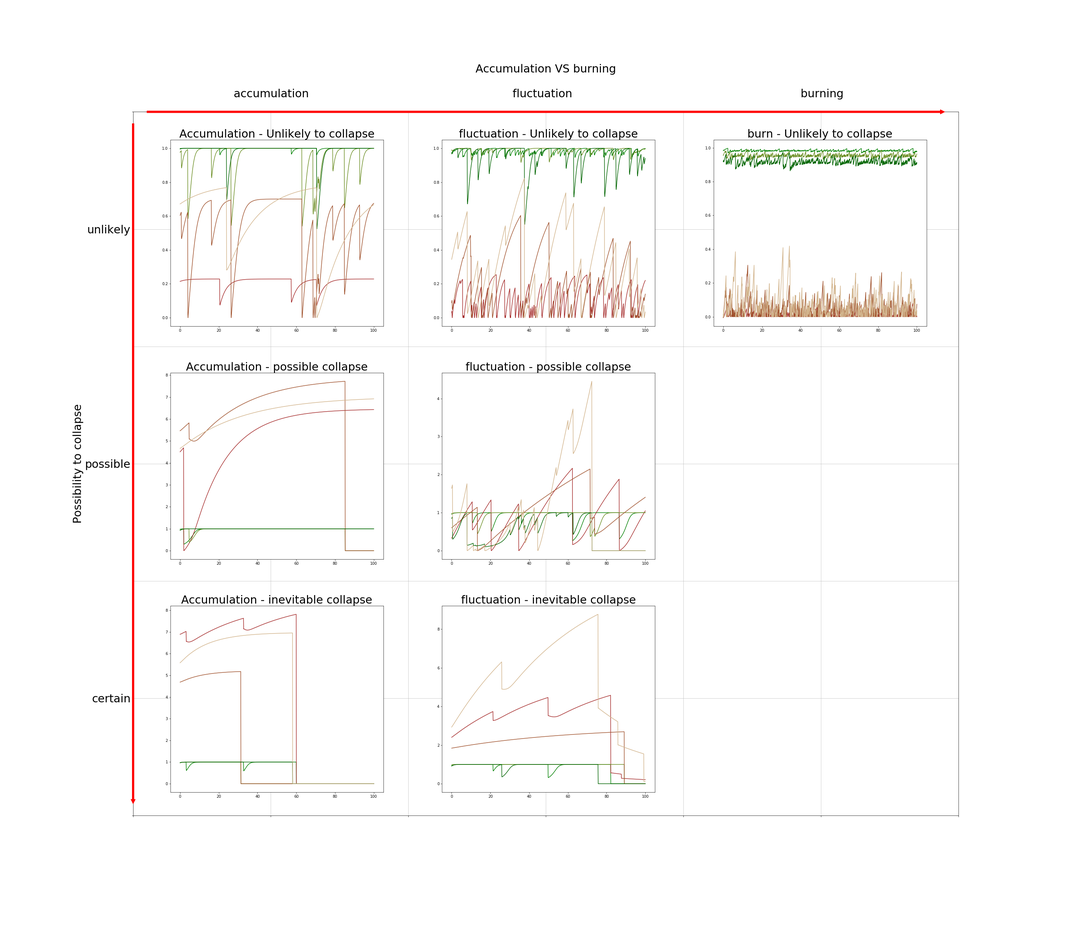
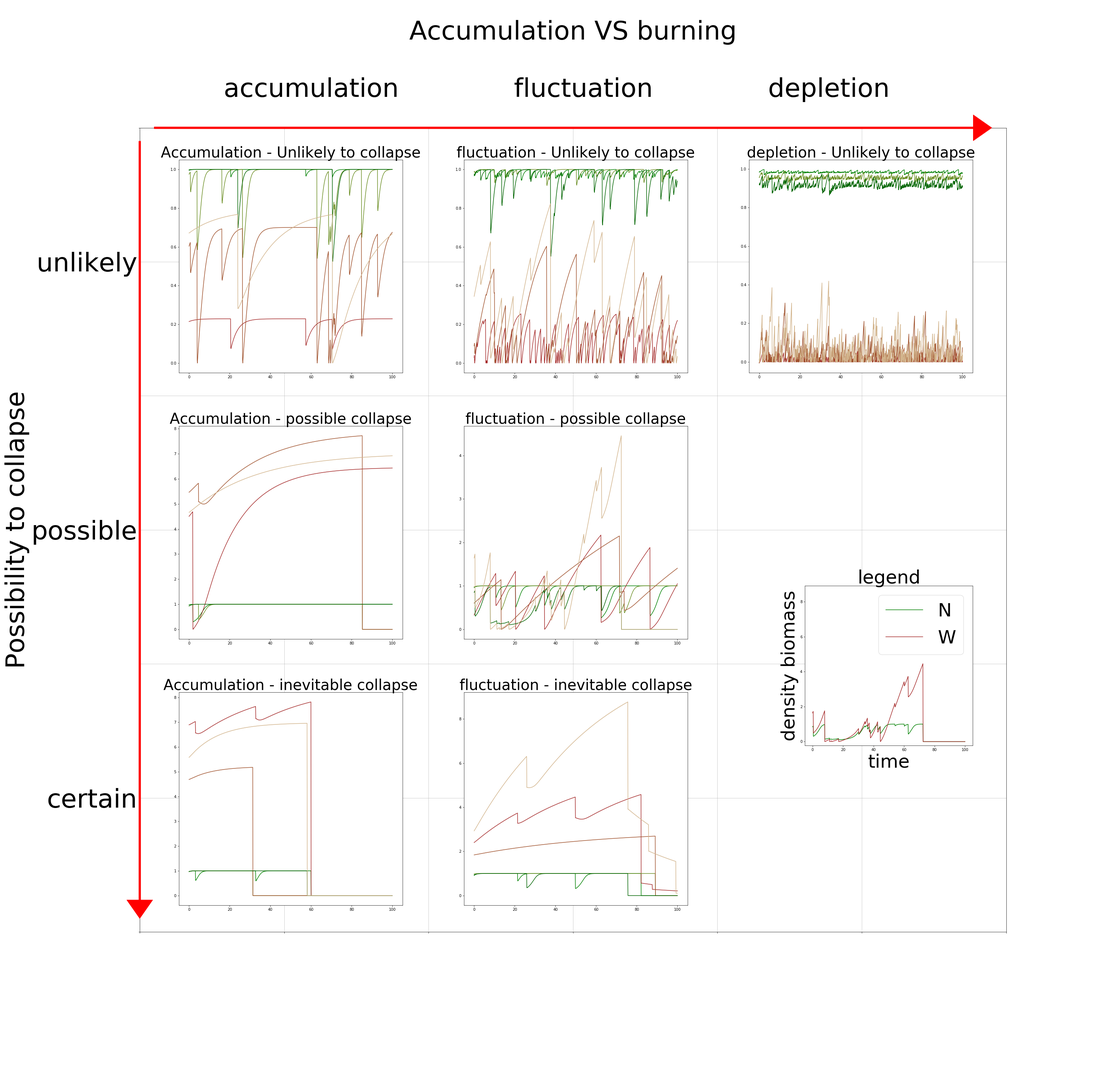
2.1 - model dynamics

diff --git a/main.tex b/main.tex
@@ -4,6 +4,8 @@
 \usepackage[colorlinks=true, allcolors=blue]{hyperref}
 \usepackage{algorithm}
 \usepackage{algorithmic}
+\usepackage{multirow}
+
 
 \title{rapport}
 \author{jjycavailles }
@@ -699,7 +701,7 @@ In this study, we focus on two measures : variability and collapse probability. 
 The aim of this section is to give two axes, to grade a dynamical behaviour, given the corresponding set of parameters.
 
 
-\subsubsection{Fuel accumulation versus burning effect}
+\subsubsection{Fuel accumulation versus depletion}
 
 \paragraph{}
 The first axes focuses on representing the major effect between accumulation of fuel and fuel burning. In order to do this, we approximate the average of each effects at the point $(1, \frac{m}{2d})$. The approximation $N=1$ is reasonable because $N$ is usually close to $1$. We make the derivation when $W = \frac{m}{2d}$ because we can see if at this point the dynamics tends to pull back fuel at a lower level or at a higher level. For example, if for a set of parameter, fuel accumulation dominate, the fuel is usually higher than $W = \frac{m}{2d}$ and if this density go down at this point the dynamics will tends to increase the level of fuel.
@@ -760,8 +762,8 @@ AB & = & fs\beta(\frac{2}{m}+\frac{\alpha}{d}) \\
 
 
 \paragraph{}
-The second axis represent the possibility to collapse. Indeed, it is unlikely to collapse if the severity of the fire is really low (compare to $N = 1$). We can define the axis 
-%We say that the system is unlikely to collapse if the probability to collapse with only one fire is lower than $0.01$.
+The second axis represent the possibility to collapse. Indeed, it is unlikely collapse if the severity of the fire is really low (compare to $N = 1$). We can define the axis 
+%We say that the system is unlikely collapse if the probability to collapse with only one fire is lower than $0.01$.
 \[
 \begin{array}{rccl}
                 &  P(s(N+\alpha W) > N-a ) & < & 0.01 \\
@@ -841,18 +843,19 @@ the specimen is constrained to be at the lower level of the axis.
 %a= 0.02 , m= 0.5 , d= 0.015625 , strength= 0.01 , alpha= 10 , beta= 2.0 % clock
 
 \paragraph{}
-We being by considering the possible dynamics that can occur in our model. Here, by changing almost only the value of $m$ and $\alpha$, in particular, the frequency remain the same, we have three time series with different general behaviour.
+We being by considering the possible dynamics that can occur in our model. Here, by changing only the value of $d$, in particular, the frequency remain the same, we have three time series with different general behaviour.
 
-In the first one, the recovery after a fire is very slow, the system can subsist only because the average strength of fire is sufficiently low. For another example, the recovery is still slow, however, here it is because the level of fuel remain too low that the system can resist to the first fires. In the last illustration, the recovery is too fast to maintain a low level of fuel, therefore, fuel accumulate, and a strong fire collapse the system.
+In the first one, the recovery after a fire is slow and the level of fuel is usually high which allow the system to collapse. For another example, the recovery is still slow, however, the level of fuel remain lower thus the system can resist to collapse. In the last illustration, the recovery is fast, and because the level of fuel is too low, a fire could not collapse the system.
 
+By changing only one parameter, we have different dynamical behaviour, and different consequences for variability and collapse probability.
 
 \begin{figure}[h!]
 \begin{center}
-\includegraphics[height = 4cm]{results/time_series_case_linear_2.png}
-\includegraphics[height = 4cm]{results/time_series_case_counter_2.png}
-\includegraphics[height = 4cm]{results/time_series_case_clock_2.png}
+\includegraphics[height = 3.8cm]{results/time_series_2.png}
+\includegraphics[height = 3.8cm]{results/time_series_3.png}
+\includegraphics[height = 3.8cm]{results/time_series_4.png}
 \end{center}
-\caption{\label{fig:temp}From left to right, $m$ (the decay rate) increase and $\alpha$ decrease}
+\caption{\label{fig:temp}Time series with different values of $d$ : $0.0625$, $0.125$ and $0.25$}
 \end{figure}
 % or category or type, kinds 
 % Time series for three different value of $m$ and $\alpha$
@@ -874,7 +877,7 @@ In the first one, the recovery after a fire is very slow, the system can subsist
 %Because we want to explore exhaustively the different dynamics cases, we introduce a coefficient to distinguish typical cases. Different \hyperref[other_ratio]{others coefficients} have been tested but only the following is used. After, another axes will be used to subdivide each cases.
 
 \paragraph{}
-Although we see different behaviour by changing only two parameters, the connection is not clear. So we will now try to clarify this by using \hyperref[axes_definition]{previously defined} axes by which we can exhaustively compare all the possible types of dynamics.
+Although we see different behaviour by changing only one parameters, the connection is not clear. So we will now try to clarify this by using \hyperref[axes_definition]{previously defined} axes by which we can exhaustively compare all the possible types of dynamics.
     
 The first axes compare the effect of fuel decay and burning. The first axes is also used to construct the second one : the possibility to collapse.
 
@@ -884,12 +887,12 @@ Below are presented several time series for each subcases, in order to give an i
 \begin{figure}[h!]
 \centering
 \includegraphics[width=12cm]{results/time_series_each_cases.png}
-\caption{Typical dynamical cases along the two axes "accumulation VS burning" and "possibility to collapse"}
+\caption{Typical dynamical cases along the two axes \textit{accumulation VS depletion} and \textit{possibility to collapse}}
 %\label{fig:universe}
 \end{figure}
 
 
-\subsubsection{Accumulation VS burning}
+\subsubsection{Accumulation VS depletion}
 
 \paragraph{}
 Indeed, the two previously defined axes could help to distinguish typical dynamical cases. We choose two separate the first axes in three part, by using two threshold ($0.5$ and $20$) for the value of the ratio \textit{AB}. The first part correspond to the cases when fuel accumulate a lot. In this case, fuel have usually time to come back at equilibrium ($W^{eq}=\frac{m}{d}$) before another fire occurs.
@@ -912,13 +915,13 @@ At the opposite, when the ratio called \textit{AB} is high, in another word when
 \includegraphics[width=3.9cm]{continue_1.png}
 \includegraphics[width=3.9cm]{continue_2.png}
 \includegraphics[width=3.9cm]{continue_3.png}
-\caption{Time series for different parameter sets corresponding to the case : burn}
+\caption{Time series for different parameter sets corresponding to the case : depletion}
 %\label{fig:universe}
 \end{figure}
 
 
 \paragraph{}
-Between the two previous cases, we define a third cases called "fluctuation". It happens when the effect of the fire and the growth are about the same quantity. In this case, $W$ can take the larger range of value (from $0$ to $W^{eq}=\frac{m}{d}$).
+Between the two previous cases, we define a third cases called \textit{fluctuation}. It happens when the effect of the fire and the growth are about the same quantity. In this case, $W$ can take the larger range of value (from $0$ to $W^{eq}=\frac{m}{d}$).
 \begin{figure}[h!]
 \centering
 \includegraphics[width=3.9cm]{middle_1.png}
@@ -931,7 +934,7 @@ Between the two previous cases, we define a third cases called "fluctuation". It
 
 \paragraph{}
 In order to visualise the limit of each cases, examples for each limits are presented.
-For the limit between "accumulation" and "fluctuation" we could see that a fire often occur before the dynamics come back to equilibrium. For the second one, we see that fuel is quite low, but could sometimes take relatively high value.
+For the limit between \textit{accumulation} and \textit{fluctuation} we could see that a fire often occur before the dynamics come back to equilibrium. For the second one, we see that fuel is quite low, but could sometimes take relatively high value.
 
 
 \begin{figure}[h!]
@@ -949,7 +952,7 @@ For the limit between "accumulation" and "fluctuation" we could see that a fire 
 \includegraphics[width=3.9cm]{lim_c_middle_1.png}
 \includegraphics[width=3.9cm]{lim_c_middle_2.png}
 \includegraphics[width=3.9cm]{lim_c_middle_3.png}
-\caption{Time series for different parameter sets corresponding to the limit between burn and fluctuate}
+\caption{Time series for different parameter sets corresponding to the limit between depletion and fluctuate}
 %\label{fig:universe}
 \end{figure}
 
@@ -964,15 +967,15 @@ For the limit between "accumulation" and "fluctuation" we could see that a fire 
 
 
 \paragraph{} %\todo{expand ? it is the main paragraph of the subsubsection ... }
-After using the axis \textit{AB} to distinguish several part, we used the axis "possibility to collapse". Usually, three part could be done, by using a threshold ($0.01$ and $0.2$) to the value of the axis. The first one, called "unlikely to collapse", which comprise the lower value of the axis and the cases where the condition $\frac{m}{d( 1-a)} & > & \beta$ is not respected. The transitory case called "possible collapse" when the collapse is unpredictable. And, the "inevitable collapse" when the system have a fire could easily collapse the system.
+After using the axis \textit{AB} to distinguish several part, we used the axis \textit{possibility to collapse}. Usually, three part could be done, by using a threshold ($0.01$ and $0.2$) to the value of the axis. The first one, called \textit{unlikely collapse}, which comprise the lower value of the axis and the cases where the condition $\frac{m}{d( 1-a)} & > & \beta$ is not respected. The transitory case called "possible collapse" when the collapse is unpredictable. And, the \textit{inevitable collapse} when the system have a fire could easily collapse the system.
 
-Using the two axis together allow to have a grid of typical dynamical cases. However, the number of this cases is $7$ and not $9$, because for the case "burn" in other words the ratio \textit{AB} is high, the level of fuel is too low to allow a fire to  the system. We have not the case "Burn - possible collapse" and surely not "Burn - inevitable collapse". Nonetheless, let recall that even is the case "unlikely collapse", the system is still able to collapse, but the risk is very low.
+Using the two axis together allow to have a grid of typical dynamical cases. However, the number of this cases is $7$ and not $9$, because for the case $depletion$ in other words the ratio \textit{AB} is high, the level of fuel is too low to allow a fire to  the system. We have not the case \textit{depletion - possible collapse} and surely not \textit{depletion - inevitable collapse}. Nonetheless, let recall that even is the case \textit{unlikely collapse}, the system is still able to collapse, but the risk is very low.
 
 
 
 
 \paragraph{accumulation - unlikely collapse\\}
-Below are presented two times series, with two different set of parameter corresponding to the case "accumulation - unlikely collapse". The left instance correspond at the case where the system not collapse because the condition $\frac{m}{d( 1-a)} & > & \beta$ is not respected, it could be verified that even is fire are strong, the lack of fuel stop it, and the system survive. The right instance correspond at low severity of the fire, the dynamics have time to come back at equilibrium between two fires.
+Below are presented two times series, with two different set of parameter corresponding to the case \textit{accumulation - unlikely collapse}. The left instance correspond at the case where the system not collapse because the condition $\frac{m}{d( 1-a)} & > & \beta$ is not respected, it could be verified that even is fire are strong, the lack of fuel stop it, and the system survive. The right instance correspond at low severity of the fire, the dynamics have time to come back at equilibrium between two fires.
 
 
 \begin{figure}[h!]
@@ -985,7 +988,7 @@ Below are presented two times series, with two different set of parameter corres
 
 
 \paragraph{accumulation - inevitable collapse\\} % always
-For some set of parameter, the system always collapse. Of course, it occurs, when the condition $\frac{m}{d( 1-a)} > \beta$ is respected. Also, the severity of the fire need to be strong enough to collapse. Because the family "accumulation" implies that the dynamics usually return to equilibrium between two fires, the system could collapse only by a single and strong fire, as we can see below.
+For some set of parameter, the system always collapse. Of course, it occurs, when the condition $\frac{m}{d( 1-a)} > \beta$ is respected. Also, the severity of the fire need to be strong enough to collapse. Because the family \textit{accumulation} implies that the dynamics usually return to equilibrium between two fires, the system could collapse only by a single and strong fire, as we can see below.
 
 \begin{figure}[h!]
 \centering
@@ -1013,8 +1016,8 @@ Between this two extremes cases, exists a range of parameters when a collapse co
 
 %%%%%%%%%%%%%%%%%%  \todo{... link with cp (but after) ... } 
 
-\paragraph{burn \\}
-Following the same idea than previously, when $W$ is always low, collapse can never occurs. In practice, we can observe a collapse only, when the set of parameter is closed to the case "fluctuation". So, $W$ can go higher enough to generate a fire. But this is observed rarely. On the figure below we can observe that $W$ come back to $0$ with each fire and have no time to accumulate to engender a strong fire.
+\paragraph{depletion \\}
+Following the same idea than previously, when $W$ is always low, collapse can never occurs. In practice, we can observe a collapse only, when the set of parameter is closed to the case \textit{fluctuation}. So, $W$ can go higher enough to generate a fire. But this is observed rarely. On the figure below we can observe that $W$ come back to $0$ with each fire and have no time to accumulate to engender a strong fire.
 %\todo{jamais collapse, expliquer pourquoi avec un très simple calcul}
 %\todo{nuancer dans le cas ou on est proche du cas "equivalence" and fuel is not always low enough}
 
@@ -1022,7 +1025,7 @@ Following the same idea than previously, when $W$ is always low, collapse can ne
 \centering
 \includegraphics[width=6cm]{continue_1.png}
 \includegraphics[width=6cm]{continue_2.png}
-\caption{Time series for different parameter sets corresponding to the case : "burn"}
+\caption{Time series for different parameter sets corresponding to the case : \textit{depletion}}
 %\label{fig:universe}
 \end{figure}
 
@@ -1035,11 +1038,11 @@ Following the same idea than previously, when $W$ is always low, collapse can ne
 
 \newpage
 \paragraph{fluctuating \\}
-The case called "fluctuating" is the harder to study, justly because $W$ fluctuates a lot, it is thus more difficult to have analytic results. Depending on the value of the ratio \textit{AB}, it could make sense to assimilate this case to the case "accumulate" or "burn".
+The case called \textit{fluctuating} is the harder to study, justly because $W$ fluctuates a lot, it is thus more difficult to have analytic results. Depending on the value of the ratio \textit{AB}, it could make sense to assimilate this case to the case \textit{accumulate} or \textit{depletion}.
 
 
 \paragraph{}
-When $AB$ is close enough to the limit with the case "burn", we could consider that the level remain most of the time low enough to avoid collapse. However, the risk to collapse is here not negligible.
+When $AB$ is close enough to the limit with the case \textit{depletion}, we could consider that the level remain most of the time low enough to avoid collapse. However, the risk to collapse is here not negligible.
 
 
 \begin{figure}[h!]
@@ -1047,13 +1050,13 @@ When $AB$ is close enough to the limit with the case "burn", we could consider t
 \includegraphics[width=5.5cm]{equivalent_high_1.png}
 \includegraphics[width=5.5cm]{equivalent_high_3.png} \\
 \includegraphics[width=5.5cm]{equivalent_high_2.png}
-\caption{Time series for different parameter sets corresponding to the case : fluctuation, but close to "burn"}
+\caption{Time series for different parameter sets corresponding to the case : \textit{fluctuation}, but close to \textit{depletion}}
 %\label{fig:universe}
 \end{figure}
 
 \newpage
 \paragraph{}
-Also, when $AB$ is lower, we have again the same three sub-cases than for the "accumulation" case. We can observe that for this example, the dynamics do not change much.%, and that the extrapolation could make sense (but only if $AB$ is low enough).
+Also, when $AB$ is lower, we have again the same three sub-cases than for the \textit{accumulation} case. We can observe that for this example, the dynamics do not change much.%, and that the extrapolation could make sense (but only if $AB$ is low enough).
 %\todo{ratio low, proche "return", on herite des 3 cas, never always, between}
 %\todo{illustrer 3 exemples pour chaque cas}
 
@@ -1064,7 +1067,7 @@ Also, when $AB$ is lower, we have again the same three sub-cases than for the "a
 \includegraphics[width=3.9cm]{equivalent_low_never_1.png}
 \includegraphics[width=3.9cm]{equivalent_low_never_2.png}
 \includegraphics[width=3.9cm]{equivalent_low_never_3.png}
-\caption{Time series for different parameter sets corresponding to the case : fluctuating - unlikely to collapse}
+\caption{Time series for different parameter sets corresponding to the case : fluctuating - unlikely collapse}
 %\label{fig:universe}
 \end{figure}
 
@@ -1096,76 +1099,129 @@ Also, when $AB$ is lower, we have again the same three sub-cases than for the "a
 
 
 \newpage
-\subsection{Link between variability and cp}
+\subsection{Connection between variability and collapse probability}
 
-\todo{You need to do this more slowly and coherently, and refer to different figures as you go along.}
 \paragraph{}
-For each of this dynamical cases, the behaviour of the two measure used, variability and collapse probability changed. Indeed, we can see below that that two measures increase for all subcases of "AB" except for the subcases "never" where "cp" remains null. Same, they are a peak for each measures (always, except for the subcases "never", "cp" remains equal to $0$). And, for fuel low, both measure are decreasing to $0$.
+One of our major focus is to study the impact of frequency over variability and collapse probability. We study this for each of the seven dynamical cases defined previously, with an appropriate range of value of frequency.
 
-We can remark, especially for the case "fluctuating" that the two peak do not occur at the same time.
+\paragraph{}
+We begin with the dynamical case called \textit{accumulate - unlikely collapse}. The red font is used to mark the dynamical case \textit{accumulate} the yellow correspond to \textit{fluctuation}. We could see that the variability increase whit the frequency, however, collapse probability remains null. We can remark that the estimation (the continuous line) work reasonably well. 
 
-\todo{- Figs. 26-28(29) can be perhaps kept in a similar form, and better explained, or joined together to some figure that shows all cases together in an organized manner. Each figure needs to be better presented, perhaps without the estimations as it is right now "adding noise", using more height (they are quite "narrow" right now), and so on.
-}
-
+\todo{do again the plot with good name, and ...}
 \begin{figure}[h!]
 \begin{center}
-\includegraphics[width=6cm]{results/return_never_2.png}
-\includegraphics[width=6cm]{results/equivalent_never.png} \\
+\includegraphics[width=10cm]{results/return_never_2.png}
 \end{center}
-\caption{\label{fig:temp}Left Return to equilibrium / never and right : Equivalent / never} % or category or type, kinds
+\caption{\label{fig:temp}Measures evolution over frequency for the dynamical cases : accumulate - unlikely collapse}
 \end{figure}
 
 
-\begin{figure}[h!]
-\begin{center}
-\includegraphics[width=6cm]{results/return_moderate_2.png}
-\includegraphics[width=6cm]{results/equivalent_moderate_2.png} \\
-\end{center}
-\caption{\label{fig:temp}Left Return to equilibrium / moderate and right : Equivalent / moderate}\end{figure}
+\paragraph{}
+Here, the collapse probability is still null. The is firstly increasing, following the behaviour of the case \textit{accumulate - unlikely collapse} and decrease after, when we approaching the \textit{depletion} dynamical case.
+
 
 \begin{figure}[h!]
 \begin{center}
-\includegraphics[width=6cm]{results/return_always_2.png} 
-\includegraphics[width=6cm]{results/equivalent_always.png} \\
+\includegraphics[width=10cm]{results/equivalent_never.png} \\
 \end{center}
-\caption{\label{fig:temp}Left Return to equilibrium / always and right : Equivalent / always}\end{figure}
+\caption{\label{fig:temp}Measures evolution over frequency for the dynamical cases : fluctuation - unlikely collapse}
+\end{figure}
+
+
+\paragraph{}
+When frequency is high enough, $AB$ take high value, and the fuel is constrain to low value. The two measures are decreasing quickly. Depending on the parameter set, collapse probability could already be null, or crash in the depletion dynamical case.
 
 \begin{figure}[h!]
 \begin{center}
 \includegraphics[width=10cm]{results/fuel_low.png}
 \end{center}
-\caption{\label{fig:temp}Fuel low}\end{figure}
+\caption{\label{fig:temp}Measures evolution over frequency for the dynamical cases : depletion}
+\end{figure}
 
+
+\paragraph{}
+For the two dynamical case \textit{accumulation - possible collapse} and \textit{accumulation - inevitable collapse} both variability and collapse probability are increasing.
+
+To clarify, even in the dynamical case \textit{accumulation - inevitable collapse} the collapse probability could be low because they are not enough fire in the time study to have the risk to collapse the system.
+
+\begin{figure}[h!]
+\begin{center}
+\includegraphics[width=6cm]{results/return_moderate_2.png}
+\includegraphics[width=6cm]{results/return_always_2.png} 
+\end{center}
+\caption{\label{fig:temp}Measures evolution over frequency for the dynamical cases : Left \textit{accumulation - possible collapse}, Right \textit{accumulation - inevitable collapse}}
+\end{figure}
+
+
+
+\paragraph{}
+For the two dynamical case \textit{fluctuation - possible collapse} and \textit{fluctuation - inevitable collapse} both variability and collapse probability are firstly increasing and after decreasing. 
+
+
+
+\begin{figure}[h!]
+\begin{center}
+\includegraphics[width=6cm]{results/equivalent_moderate_2.png} \includegraphics[width=6cm]{results/equivalent_always.png}
+\end{center}
+\caption{\label{fig:temp}Measures evolution over frequency for the dynamical cases : Left \textit{fluctuation - possible collapse}, Right \textit{fluctuation - inevitable collapse}}
+\end{figure}
 
 
 
 
 
 \newpage
-\paragraph{}
-Previously, the frequency range used was choose to remains in the same sub cases. Now, we want to know what happens when the frequency range is higher. To do this, we study the transition of subcases when we double the frequency. 
-
-We can see that the ability to collapse in one fire do not change, however, the ratio change, and thus, doubling the frequency could change the dynamical cases for axis 1 but not for axis 2. \todo{reformulate}
-
-
-\todo{write the matrix in latex, and write the name of subcases for each (table env)}
-
-\begin{figure}[h!]
-\begin{center}
-\includegraphics[width=12cm]{results/matrice_transition.png}
-\end{center}
-\caption{\label{fig:temp}Transition matrix}
-\end{figure}
-
-
-
-
 
 \paragraph{}
-Depending on the parameter set choose, the dynamics is different and therefore, the variability and the collapse probability do not react similarly. Also, we focus here on the influence of frequency to the dynamics. We can see below that increasing frequency could have different effect on variability and collapse probability.
+Inside each dynamical case, frequency affect both variability and collapse probability. Because $AD$ depend of frequency, changed this one could implies a changed of dynamical case. In order to study the effect of frequency across dynamical cases, we study the transition to one dynamical case to another one.
 
-On the first one, variability and cp first increase together and after decrease (the decreasing part is not always present). On the second one, the two measure are also increasing and decreasing but not in the same time, more surprisingly cp increase before variability. However, in the last class presented, the loop is clockwise.
+To do this, we compute the probability to change the dynamical case if the frequency is doubled. We have the following matrix transition.
 
+
+%\paragraph{}
+%Previously, the frequency range used was choose to remains in the same sub cases. Now, we want to know what happens when the frequency range is higher. To do this, we study the transition of subcases when we double the frequency. 
+
+%We can see that the ability to collapse in one fire do not change, however, the ratio change, and thus, doubling the frequency could change the dynamical cases for axis 1 but not for axis 2. \todo{reformulate}
+
+
+\begin{table}[h!]
+    \centering
+    \begin{tabular}{|c|c||c|c|c|c|c|c|c|}
+        \hline
+        $AB$ && \multicolumn{3}{c|}{accumulation} & \multicolumn{3}{c|}{fluctuation} & \\
+        \hline
+        & \rotatebox{45}{possibility to collapse} & \rotatebox{90}{unlikely collapse} & \rotatebox{90}{possible collapse} & \rotatebox{90}{inevitable collapse} & \rotatebox{90}{unlikely collapse} & \rotatebox{90}{possible collapse} & \rotatebox{90}{unlikely collapse} & \rotatebox{90}{depletion} \\
+        \hline
+        \hline
+        \multirow{3}*{accumulation} & unlikely collapse & 0.757 & 0 & 0 & 0.243 & 0 & 0 & 0 \\
+        \cline{2-9}
+        & possible collapse & 0 & 0.167 & 0 & 0 & 0.833 & 0 & 0 \\
+        \cline{2-9}
+        & inevitable collapse & 0 & 0 & 0.743 & 0 & 0 & 0.257 & 0 \\
+        \hline
+        \multirow{3}*{fluctuation} & unlikely collapse & 0 & 0 & 0 & 0.838 & 0 & 0 & 0.162 \\
+        \cline{2-9}
+        & possible collapse & 0 & 0 & 0 & 0 & 0.857 & 0 & 0.143 \\
+        \cline{2-9}
+        & unlikely collapse & 0 & 0 & 0 & 0 & 0 & 0.827 & 0.173 \\
+        \hline
+        depletion && 0 & 0 & 0 & 0 & 0 & 0 & 1 \\
+        \hline
+    \end{tabular}
+    \caption{Transition matrix}
+%    \label{tab:my_label}
+\end{table}
+
+
+
+
+\paragraph{}
+Now, the frequency ranged used is consequently higher. We focus on the general effect of changing frequency to the two measures. We could check below that for the extremes (low value of frequency and high value of frequency) both measures are very small, and they are higher for an intermediate value of frequency.
+
+
+\paragraph{}
+Depending on the parameter set choose, the dynamics is different and therefore, the variability and the collapse probability do not react similarly. On the first one, variability and cp first increase together and after decrease (the decreasing part is not always present). On the second one, the two measure are also increasing and decreasing but not in the same time, more surprisingly cp increase before variability. However, in the last class presented, the loop is clockwise.
+\todo{another plot, with a counter clockwise more circular ?}
 
 
 \begin{figure}[h!]
@@ -1206,8 +1262,7 @@ However, if in the case "AB" variability and collapse probability are similar, f
 \end{figure}
 
 
-\paragraph{}
-fuel removal, very efficient to decrease cp
+
 
 
 \newpage
@@ -1215,7 +1270,7 @@ fuel removal, very efficient to decrease cp
 
 
 \paragraph{}
-We now focus on the drought scenarios. This is a current subject (a lot of recent papers about this). This is mainly a consequence of extreme weather as a result of climate changed. We link this scenarios to the parameters $f, s, \alpha$ and $\beta$ of our model. It have been shown that drought increase the frequency, the severity and the size of fire (here, we not use the last result). Also, because fuel are drier, parameters $\alpha$ and $\beta$ are higher. In brief, the consequences of climate warming is formalised by a higher values of both $f, s, \alpha$ and $\beta$.
+We now focus on the drought scenarios. This is a current subject (a lot of recent papers about this). This is mainly a consequence of extreme weather as a result of climate changed. It have been shown that drought increase the frequency, the severity and the size of fire. We link this scenarios to the parameters $f, s, \alpha$ and $\beta$ of our model. Also, because fuel are drier, parameters $\alpha$ and $\beta$ are higher. In brief, the consequences of climate warming is formalised by a higher values of both $f, s, \alpha$ and $\beta$.
 
 
 
@@ -1271,7 +1326,10 @@ It can be \hyperref[drought_increase]{demonstrated} that increasing this $4$ par
 \section{Discussion}
 \todo{Try to not make repetition (or not too much)}
 
+\todo[color = yellow]{parler du fait que les measures ne sont pas toujours bien corréllés, pas example pour le dynamical case "accu - unlikely"}
 
+\paragraph{}
+fuel removal, very efficient to decrease cp
 
 \begin{itemize}
     \item recall objective
